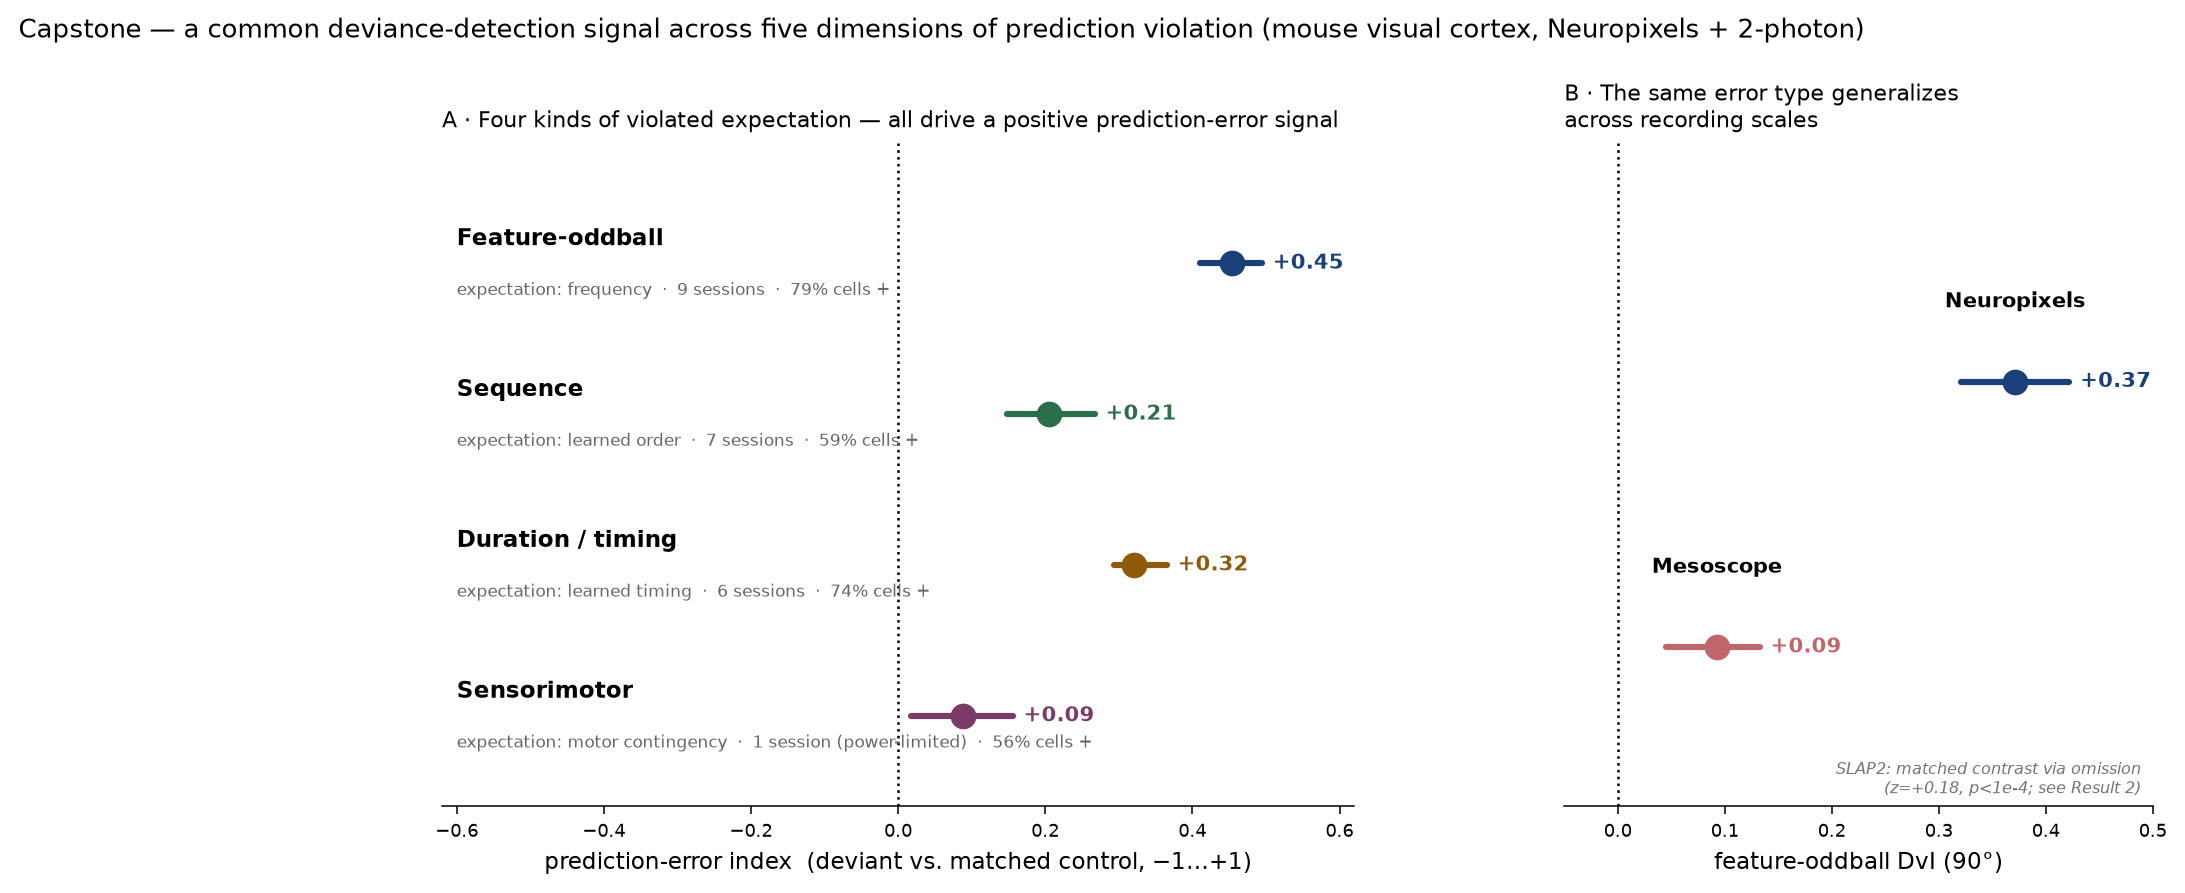
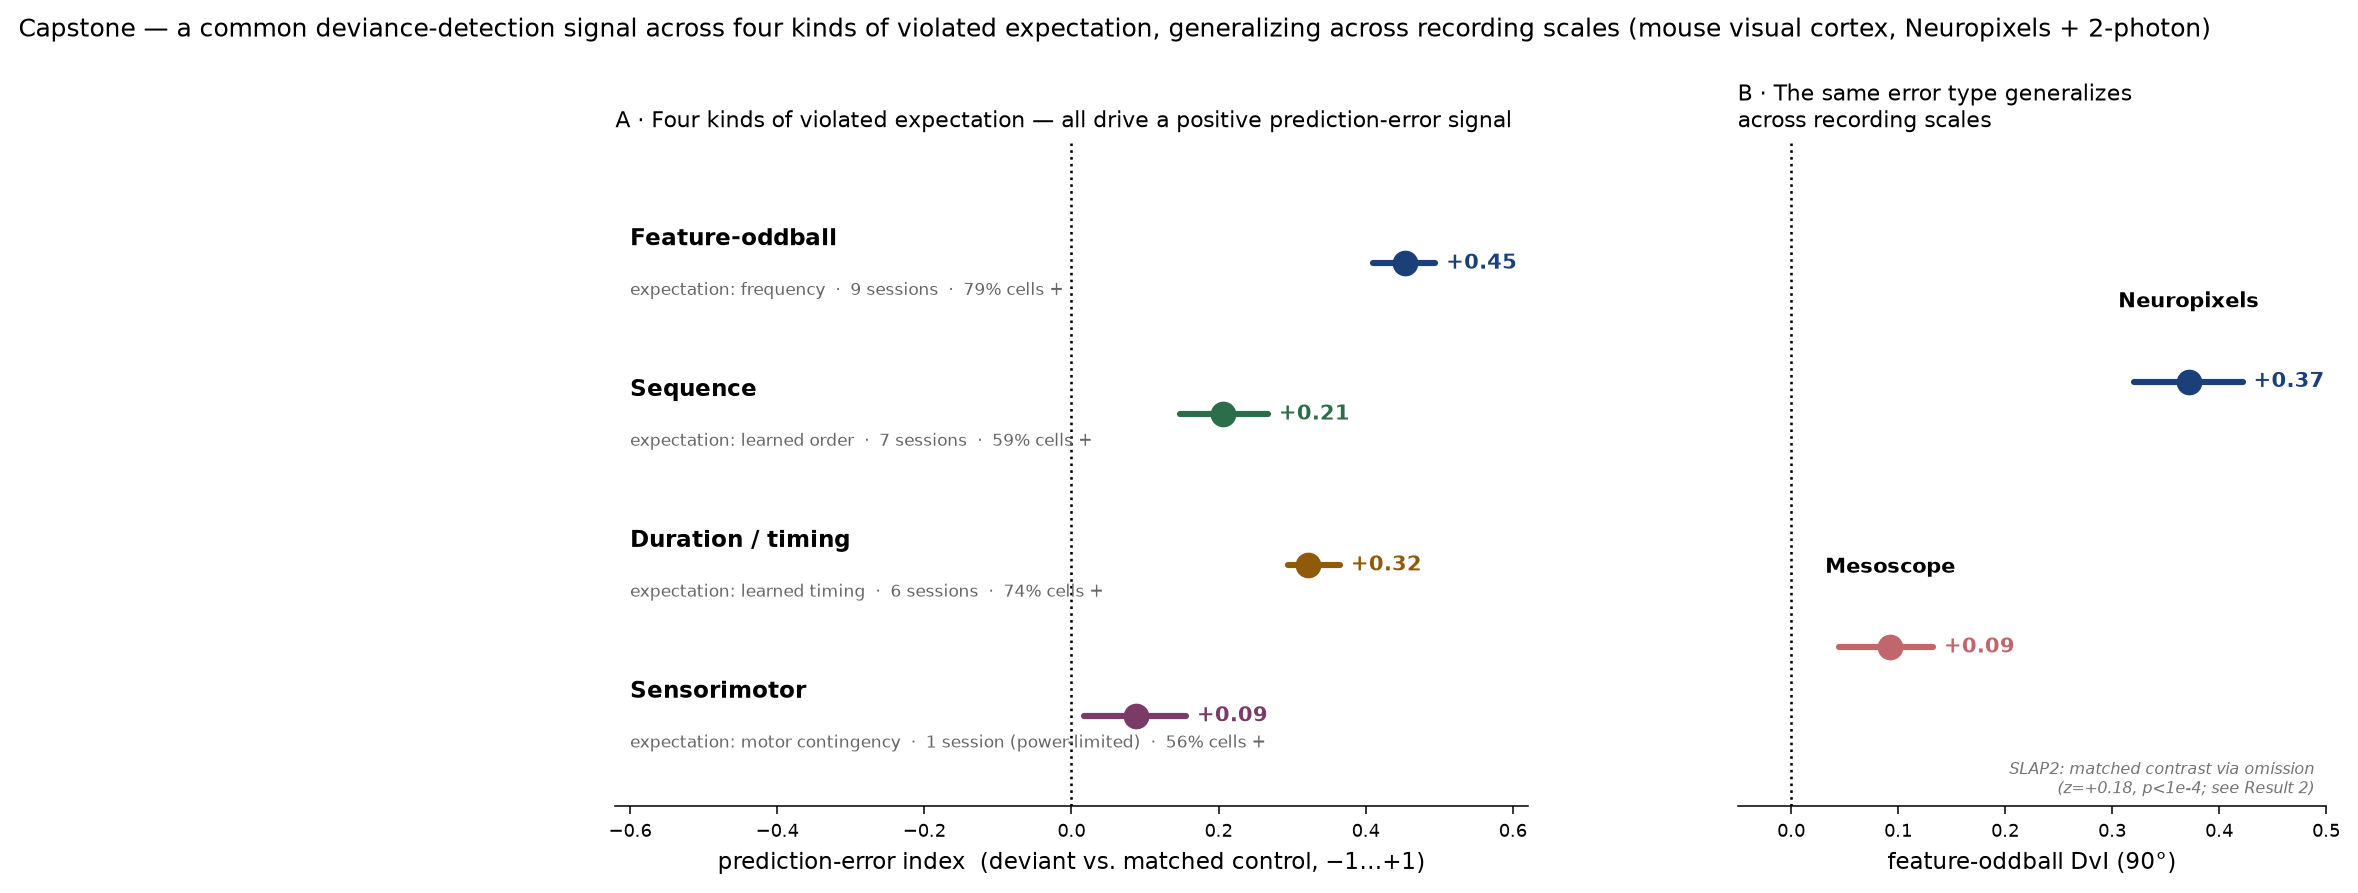
Fix capstone title self-consistency: four violation types + cross-scale, not five dimensions

diff --git a/README.md b/README.md
@@ -37,12 +37,12 @@ headline scientific result: **every kind of violated expectation we can test —
 whether the surprise is defined by stimulus frequency, motor contingency, learned
 sequence order, or learned timing — evokes a positively-signed prediction-error
 response**, and the feature-oddball form survives three independent confound
-controls and generalizes across recording scales. One direction across five
-dimensions of violation favours the common-mechanism reading (H1).
+controls and generalizes across recording scales. One direction across four
+kinds of violated expectation favours the common-mechanism reading (H1).
 
 ## Results at a glance
 
-![Common deviance-detection signal across five dimensions of prediction violation](figures/capstone_synthesis.png)
+![Common deviance-detection signal across four kinds of violated expectation, generalizing across recording scales](figures/capstone_synthesis.png)
 
 The project's five prediction-error results, on one axis. Each row of panel A is a
 different way of making a stimulus *unexpected*; the index is the deviant response
@@ -374,8 +374,8 @@ DvI, tuning-free omission, and responsiveness×tuning-balanced OI), all yield a
 effect across scales, error types, and confound controls is a substantially
 stronger footing for a **common** deviance-detection mechanism (H1) than any single
 contrast. Results 3–5 extend this to three further kinds of violated expectation
-(motor contingency, sequence order, timing); the combined five-way picture is in
-[**Results at a glance**](#results-at-a-glance).
+(motor contingency, sequence order, timing); the combined four-error-type picture,
+plus the cross-scale generalization, is in [**Results at a glance**](#results-at-a-glance).
 
 ---
 